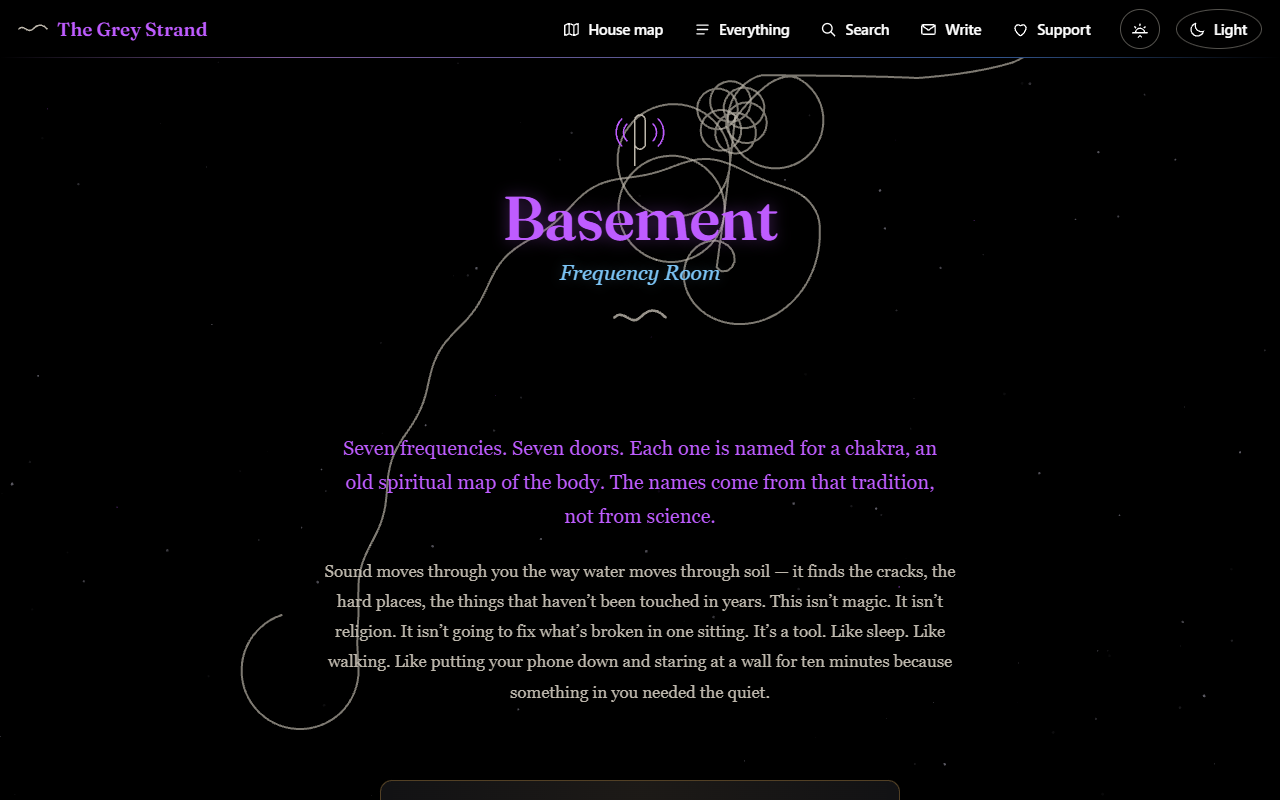
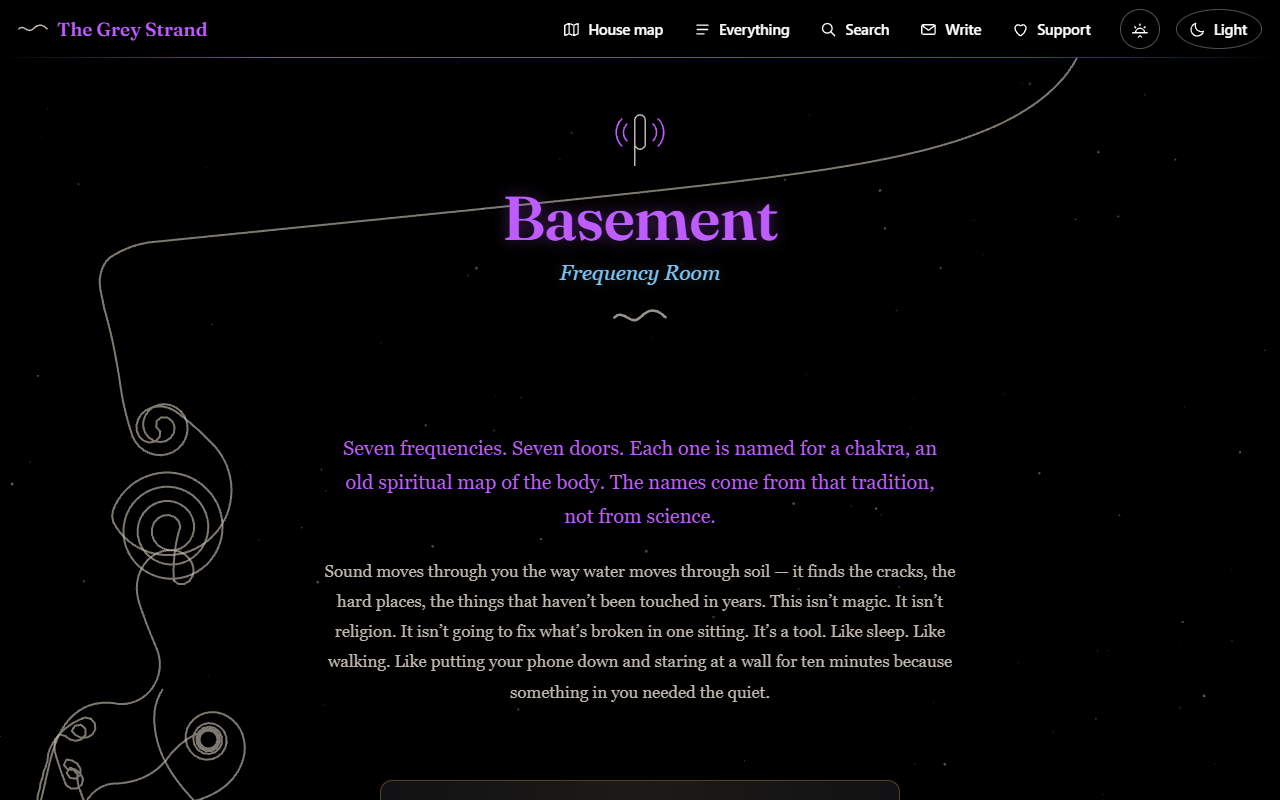
The Guest House joins the house: Purgatory Palms, live (packet 248); pictures retaken

diff --git a/README.md b/README.md
@@ -24,6 +24,7 @@ A grey strand runs through every page of it. It follows you as you go, it rings 
 * **The Basement.** Frequencies to sit with, free to play or to keep.
 * **The Garage.** The software he has made.
 * **The Back Yard.** Games and worlds, most of them playable right there, and the others shown on their own showcases.
+* **The Guest House.** Through the garden gate at the bottom of the yard: Purgatory Palms, a house of artificial people on an island, living at the same speed you do, and nobody writes their lines. Free to watch, live.
 
 Every room has a song of its own, one he made for it, waiting behind a Play button at the top of the room. Nothing plays until you ask, and once you stop it, the house stays quiet for you. All of them together, with every other song he has made for the house, are the soundtrack, The Complete Recordings, free to download from the Entry: the rooms' songs listed, the rest hidden after the last one, in a box-set sleeve of home-taped cassettes.
 
@@ -65,6 +66,8 @@ There is a door in this house with no name on it. Nobody says what is inside.
 That one is yours to find.
 
 ![The Back Yard](shots/back-yard.png)
+
+![The Guest House, with Purgatory Palms live inside it](shots/guest-house.png)
 
 ---
 
